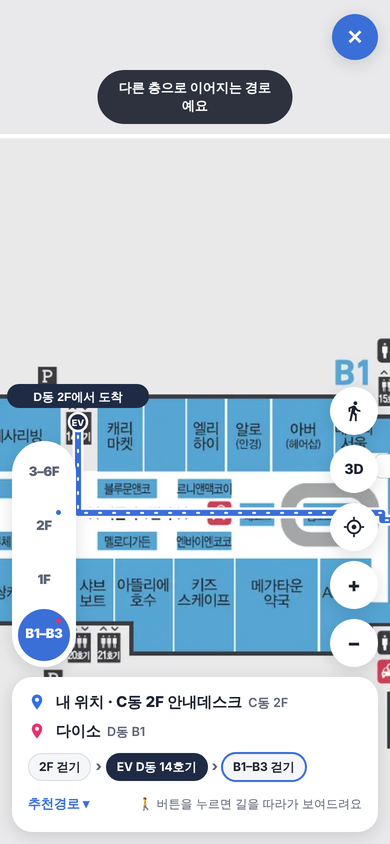
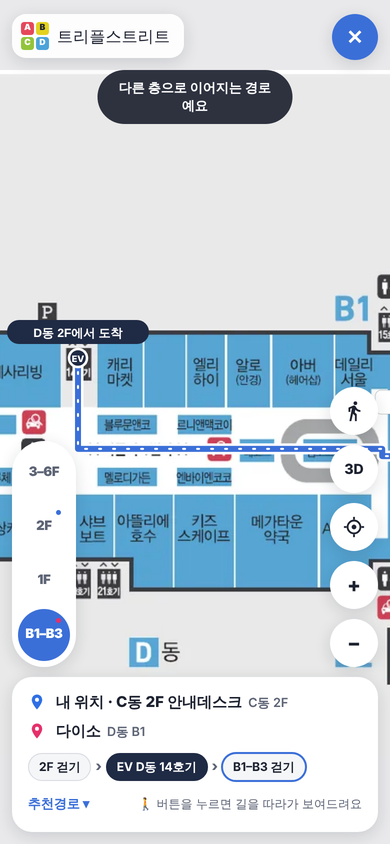
고객 화면에 트리플스트리트 브랜드 영역 추가
- 검색창 위에 A·B·C·D동 색 로고 + 'TRIPLE STREET · SONGDO / 트리플스트리트 가이드맵'
- 길 안내 중에도 왼쪽 위에 작은 브랜드 표시
- 상단 영역이 길어진 만큼 지도 여백과 안내 문구 위치 조정

Claude-Session: https://claude.ai/code/session_01DdQ5bWBvcq9ESYXProKByU

Changed region(s): [[0.0, 0.3081, 1.0, 0.8934], [0.1538, 0.0308, 0.4308, 0.0616], [0.0308, 0.0, 0.1231, 0.0616]]

diff --git a/index.html b/index.html
@@ -152,12 +152,22 @@ body.editing .cx,body.editing .sheet-full{display:none!important}
 .nv-mode{border:0;background:transparent;color:var(--route);font-weight:800;font-size:13px;padding:4px 0}
 .nv-hint{font-size:12px;color:var(--muted)}
 body.nav .cx-top,body.nav .cx-cards{display:none}
+.cx-brand{display:flex;align-items:center;gap:10px;align-self:flex-start;padding:6px 14px 6px 8px;border-radius:14px;background:color-mix(in srgb,var(--surface) 90%,transparent);box-shadow:var(--shadow);backdrop-filter:blur(6px)}
+.cx-brand .bk{display:grid;grid-template-columns:repeat(2,13px);gap:2px}
+.cx-brand .bk i{width:13px;height:13px;border-radius:3px;font-style:normal;font-size:8.5px;font-weight:900;line-height:13px;text-align:center;color:#fff}
+.cx-brand .bk .A{background:var(--bA)}.cx-brand .bk .B{background:var(--bB);color:#1d2230}.cx-brand .bk .C{background:var(--bC)}.cx-brand .bk .D{background:var(--bD)}
+.cx-brand .bt{display:flex;flex-direction:column;line-height:1.1}
+.cx-brand small{font-size:9.5px;font-weight:800;letter-spacing:.16em;color:var(--muted)}
+.cx-brand b{font-family:var(--display);font-weight:400;font-size:19px;letter-spacing:.01em;color:var(--fg)}
+.cx-brand.mini{display:none;top:max(14px,env(safe-area-inset-top));left:var(--cx-pad);padding:8px 14px 8px 9px;gap:8px}
+.cx-brand.mini b{font-size:16px}
+body.nav .cx-brand.mini{display:flex}
 body.nav .cx-close{display:grid;place-items:center}
 body.nav .cx-nav{display:flex}
 body.nav{--cards-h:118px}
 body.nav .cx-rail,body.nav .cx-fabs{bottom:calc(var(--nav-h,170px) + 22px)}
 body:not(.nav) #fWalk{display:none}
-body:not(.editing) .toast{top:max(160px,calc(env(safe-area-inset-top) + 160px))}
+body:not(.editing) .toast{top:max(206px,calc(env(safe-area-inset-top) + 206px))}
 body.nav .toast{top:max(70px,calc(env(safe-area-inset-top) + 70px))}
 body.picking .toast{top:90px}
 
@@ -337,6 +347,7 @@ body{margin:0}img{max-width:100%}
   </div>
   <!-- ===== 고객 화면: 지도 위에 떠 있는 도구 ===== -->
   <div class="cx cx-top">
+    <div class="cx-brand" role="banner"><span class="bk" aria-hidden="true"><i class="A">A</i><i class="B">B</i><i class="C">C</i><i class="D">D</i></span><span class="bt"><small>TRIPLE STREET · SONGDO</small><b>트리플스트리트 가이드맵</b></span></div>
     <div class="cx-bar">
       <button class="cx-search" id="openSearch" aria-label="매장·시설 검색"><svg width="22" height="22" viewBox="0 0 24 24" aria-hidden="true"><path fill="currentColor" d="M12 2a7 7 0 0 0-7 7c0 5.2 7 13 7 13s7-7.8 7-13a7 7 0 0 0-7-7Zm0 9.6A2.6 2.6 0 1 1 12 6.4a2.6 2.6 0 0 1 0 5.2Z"/></svg><span>무엇을 찾고 있나요?</span></button>
       <button class="cx-adm" id="openAdmin" hidden aria-label="관리자 메뉴">관리</button>
@@ -345,6 +356,7 @@ body{margin:0}img{max-width:100%}
     <button class="cx-here" id="herePill" hidden><i></i><span></span><small>현재 위치</small></button>
   </div>
   <div class="cx cx-pick" id="pickBar" hidden><span id="pickTxt"></span><button id="pickCancel">취소</button></div>
+  <div class="cx cx-brand mini" aria-hidden="true"><span class="bk"><i class="A">A</i><i class="B">B</i><i class="C">C</i><i class="D">D</i></span><b>트리플스트리트</b></div>
   <button class="cx cx-close" id="navClose" aria-label="길 안내 끝내기">✕</button>
   <div class="cx cx-rail" id="rail" role="tablist" aria-label="층 선택"></div>
   <div class="cx cx-fabs">
@@ -843,7 +855,7 @@ function clamp(){
   const b=box(),P=PANELS[st.panel];st.s=Math.max(minS()*0.95,Math.min(4,st.s));
   const W=P.w*st.s,H=P.h*st.s;
   st.tx=W<=b.w?(b.w-W)/2:Math.min(0,Math.max(b.w-W,st.tx));
-  const pt=st.edit?0:150,pb=st.edit?0:(st.nav?(document.getElementById('navCard').offsetHeight||170):170)+16; // 고객 화면: 위 검색창·아래 카드에 가리지 않게 여유
+  const pt=st.edit?0:(st.nav?70:196),pb=st.edit?0:(st.nav?(document.getElementById('navCard').offsetHeight||170):170)+16; // 고객 화면: 위 검색창·아래 카드에 가리지 않게 여유
   st.ty=H+pt+pb<=b.h?pt+(b.h-pt-pb-H)/2:Math.min(pt,Math.max(b.h-H-pb,st.ty));
 }
 function centerOn(x,y){const b=box();st.tx=b.w/2-x*st.s;st.ty=b.h/2-y*st.s;clamp();}
@@ -1056,7 +1068,7 @@ function focusPlace(pl,o={}){
   st.focus=pl;
   if(pl.p!==st.panel){st.panel=pl.p;showPanel(pl.p);}
   const b=box(),P=PANELS[pl.p];
-  if(o.pan==='ifHidden'){const [x,y]=S(pl.x,pl.y);if(x<40||x>b.w-40||y<210||y>b.h-200){centerOn(pl.x,pl.y);st.ty-=18;clamp();}}
+  if(o.pan==='ifHidden'){const [x,y]=S(pl.x,pl.y);if(x<40||x>b.w-40||y<256||y>b.h-200){centerOn(pl.x,pl.y);st.ty-=18;clamp();}}
   else{st.s=Math.max(st.s,Math.min(b.h/P.h,1)*1.25);centerOn(pl.x,pl.y);st.ty-=18;clamp();}
   draw();markCard();
   if(o.scroll){cardsUser=false;scrollToCard(pl);}
